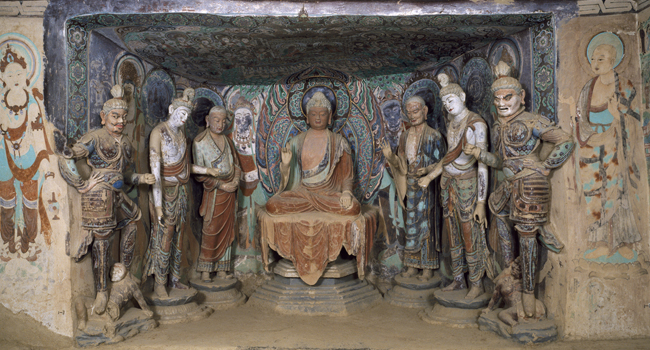
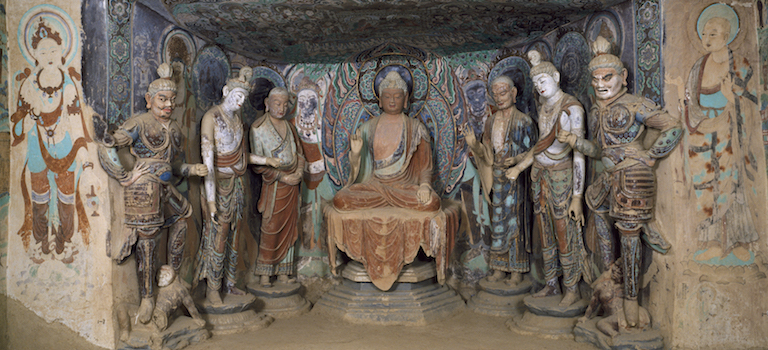
Fix the picture padding

diff --git a/app/css/creative.css b/app/css/creative.css
@@ -262,7 +262,7 @@ header .header-content .header-content-inner p {
     display: block;
     position: relative;
     margin: 0 auto;
-    max-width: 650px;
+    max-width: 768px;
 }
 
 .portfolio-box .portfolio-box-caption {
@@ -274,7 +274,7 @@ header .header-content .header-content-inner p {
     text-align: center;
     color: #fff;
     opacity: 0;
-    
+
     background: rgba(141,110,99,.9);
     -webkit-transition: all .35s;
     -moz-transition: all .35s;
